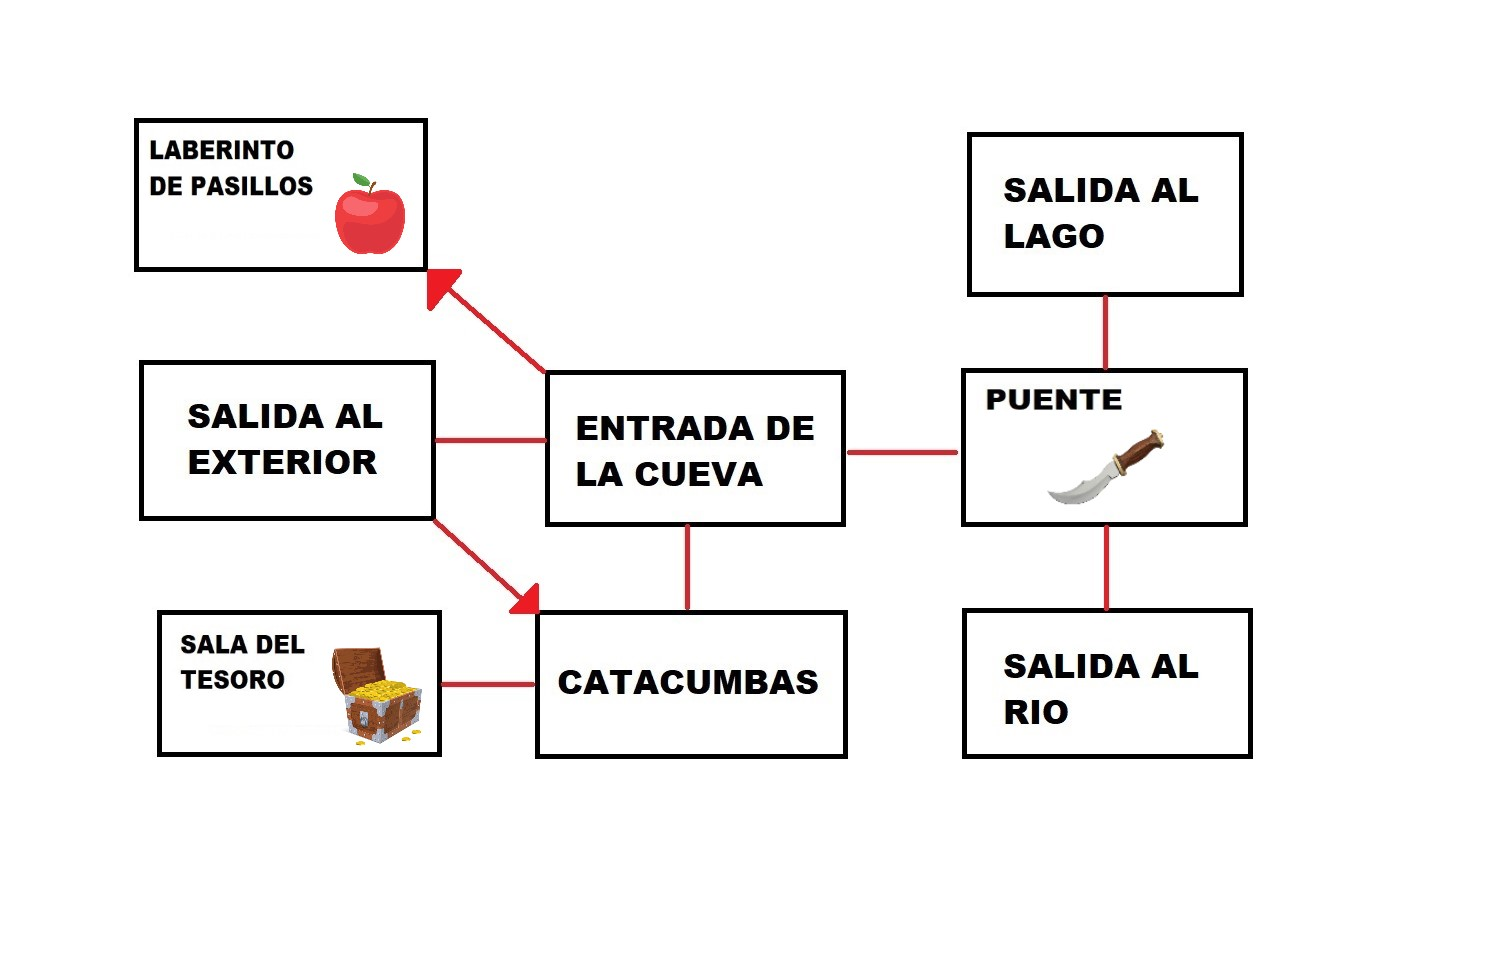
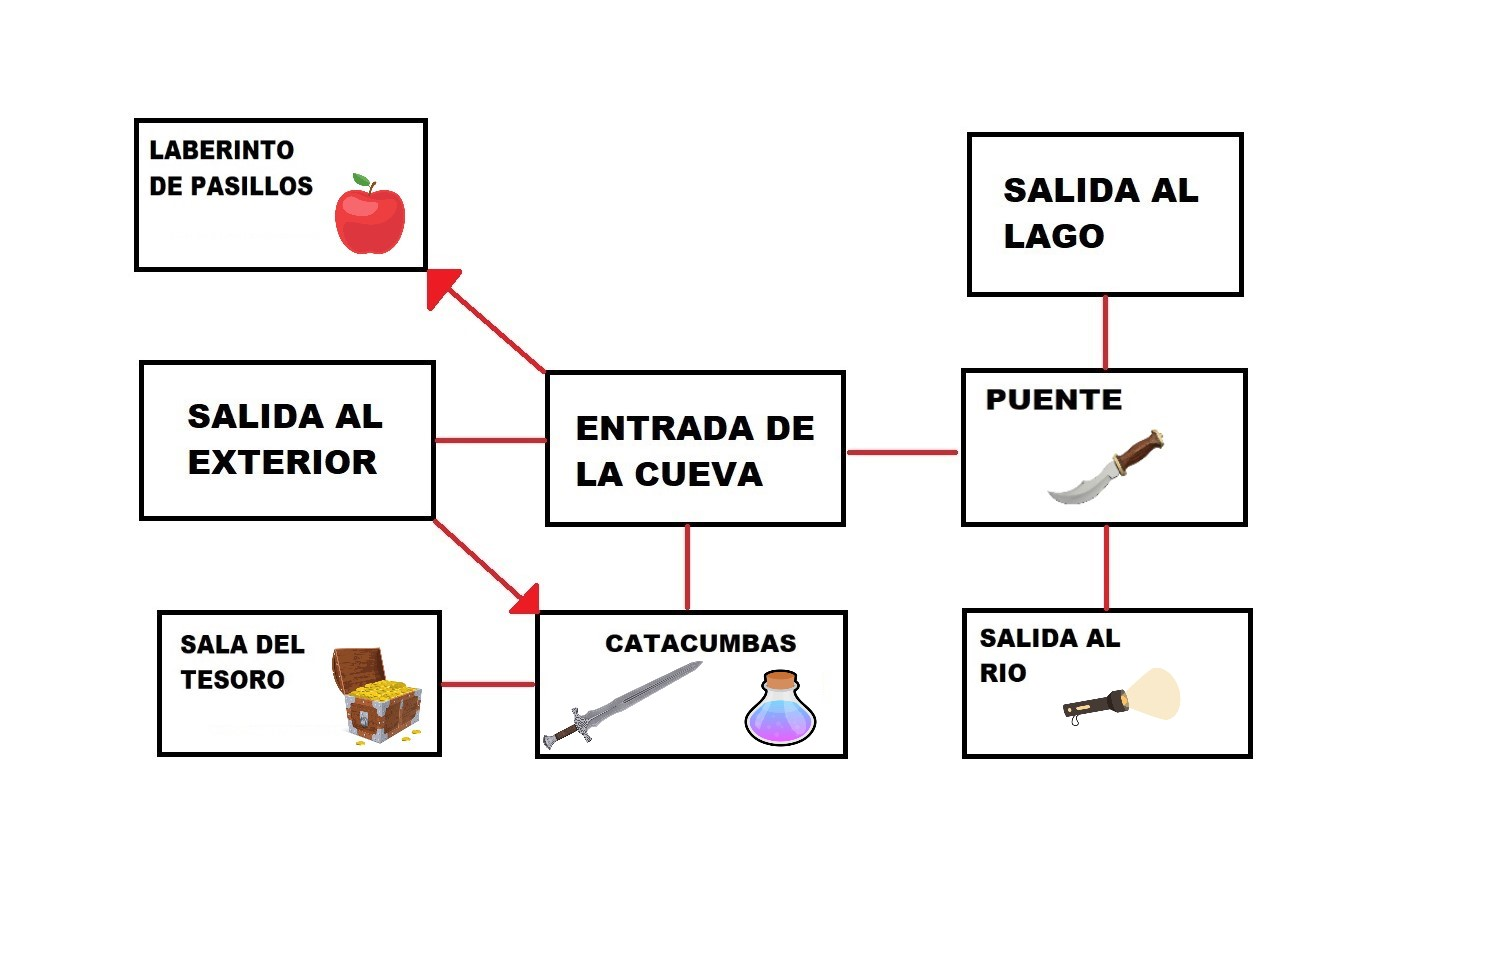
16. Añadido el metodo addItem() a las salas con objetos

Changed region(s): [[0.3675, 0.6562, 0.5513, 0.7812], [0.6431, 0.6562, 0.7963, 0.75]]

diff --git a/Room.java b/Room.java
@@ -1,5 +1,6 @@
 import java.util.HashMap;
 import java.util.Set;
+import java.util.ArrayList;
 
 /**
  * Class Room - a room in an adventure game.
@@ -19,7 +20,7 @@ public class Room
 {
     private String description;
     private HashMap<String, Room> exits;
-    private Item item;
+    private ArrayList<Item> items;
 
     /**
      * Create a room described "description". Initially, it has
@@ -27,11 +28,11 @@ public class Room
      * "an open court yard".
      * @param description The room's description.
      */
-    public Room(String description, Item item) 
+    public Room(String description) 
     {
         this.description = description;
         exits = new HashMap<>();
-        this.item = item;
+        items = new ArrayList<Item>();
     }
 
     /**
@@ -89,10 +90,17 @@ public class Room
      * @return Una descripcion completa de la habitacion incluyendo sus salidas
      */
     public String getLongDescription() {
-        String aDevolver = "You are " + description + ". ";
-        if (item != null) {
-            aDevolver += item.getItem();
+        String aDevolver = "You are " + description + ".\n" ;
+        if (items.size() >= 0) {
+            for (Item item : items) {
+                aDevolver += item.getItem() + "\n";
+            }
         }
         return aDevolver + "\n" + getExitString();
+    }
+    
+    public void addItem(String nombre, int peso) {
+        Item item = new Item(nombre, peso);
+        items.add(item);
     }
 }

diff --git a/Item.java b/Item.java
@@ -9,20 +9,16 @@ public class Item
         this.itemDescription = itemDescription;
         this.itemWeight = itemWeight;
     }
-    
+
     public String getItemDescription() {
         return itemDescription;
     }
-    
+
     public int getItemWeight() {
         return itemWeight;
     }
-    
+
     public String getItem(){
-        String cadena = "";
-        if(itemDescription != "" && itemWeight != 0){
-            cadena = "Encontrado el objeto: " + itemDescription + ", de peso: " + itemWeight + ", en esta sala!";
-        }
-        return cadena;
+        return "Encontrado el objeto: " + itemDescription + ", de peso: " + itemWeight + ", en esta sala!";
     }
 }
